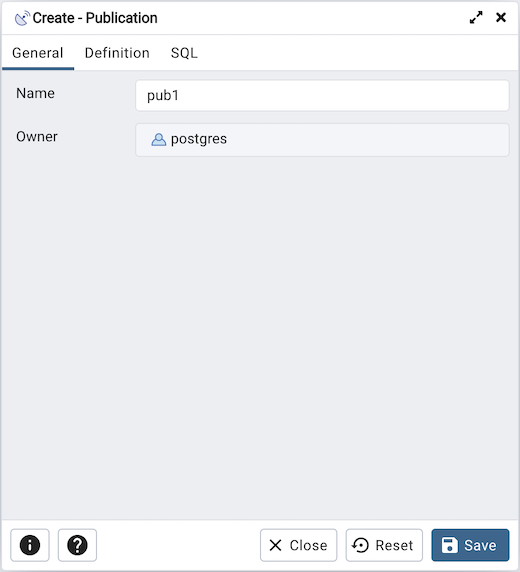
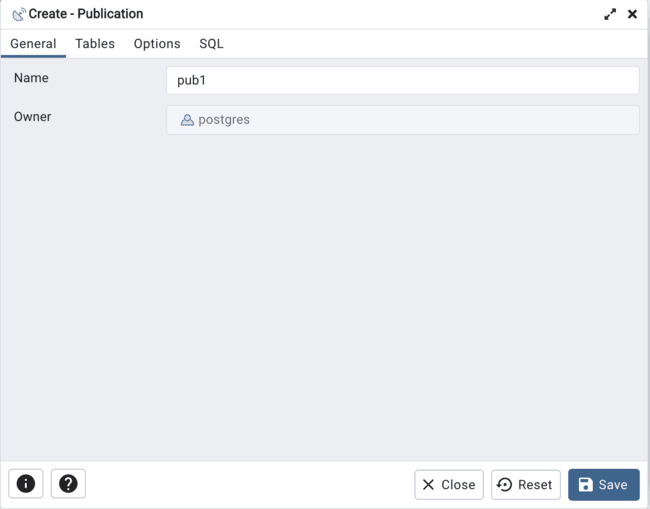
Update the publication dialog tabs and the docs. #5868

diff --git a/web/pgadmin/browser/server_groups/servers/databases/publications/static/js/publication.ui.js b/web/pgadmin/browser/server_groups/servers/databases/publications/static/js/publication.ui.js
@@ -260,11 +260,11 @@ export default class PublicationSchema extends BaseUISchema {
       mode: ['edit', 'properties', 'create'], controlProps: { allowClear: false},
     },{
       id: 'all_table', label: gettext('All tables?'), type: 'switch',
-      group: this.version < 150000 ? gettext('Definition') : gettext('Tables'), mode: ['edit', 'properties', 'create'], deps: ['name'],
+      group: gettext('Tables'), mode: ['edit', 'properties', 'create'], deps: ['name'],
       readonly: (state)  => {return !obj.isNew(state);},
     },{
       id: 'only_table', label: gettext('Only table?'), type: 'switch',
-      group: this.version < 150000 ? gettext('Definition') : gettext('Tables'), mode: ['edit', 'create'],
+      group: gettext('Tables'), mode: ['edit', 'create'],
       deps: ['name', 'pubtable', 'all_table'], readonly: (state)  => {
         if(obj.isNew(state))
           return obj.isTable(state);
@@ -291,7 +291,7 @@ export default class PublicationSchema extends BaseUISchema {
           controlProps: { allowClear: true, multiple: true, creatable: true },
         };
       },  
-      group:  this.version < 150000? gettext('Definition') : gettext('Tables'), mode: ['properties'],
+      group: gettext('Tables'), mode: ['properties'],
       deps: ['all_table'], disabled: obj.isAllTable,
     },
     {
@@ -299,7 +299,7 @@ export default class PublicationSchema extends BaseUISchema {
       type: this.version < 150000 ? 'select' : 'collection',
       controlProps: this.version < 150000 ? { allowClear: true, multiple: true, creatable: true } : null,
       options: this.version < 150000 ? this.fieldOptions.allTables : [],
-      group: this.version < 150000 ? gettext('Definition') : gettext('Tables'), mode: ['edit', 'create'],
+      group: gettext('Tables'), mode: ['edit', 'create'],
       deps: ['all_table'], disabled: obj.isAllTable, schema: this.version < 150000 ? null : this.paramSchema,
       uniqueCol: this.version < 150000 ? null : ['table_name'], 
       canAdd: this.version < 150000 ? null : (state)=> !obj.isConnected(state),
@@ -307,7 +307,7 @@ export default class PublicationSchema extends BaseUISchema {
     },
     {
       type: 'nested-fieldset', mode: ['create','edit', 'properties'],
-      label: gettext('With'), group: this.version < 150000 ? gettext('Definition') : gettext('Options'),
+      label: gettext('With'), group: gettext('Options'),
       schema : new DefaultWithSchema(this.node_info),
     },
     ];

diff --git a/docs/en_US/publication_dialog.rst b/docs/en_US/publication_dialog.rst
@@ -4,11 +4,11 @@
 `Publication Dialog`:index:
 ***************************
 
-`Logical replication <https://www.postgresql.org/docs/13/logical-replication.html>`_ uses a *publish* and *subscribe* model with one or more *subscribers* subscribing to one or more *publications* on a publisher node.
+`Logical replication <https://www.postgresql.org/docs/15/logical-replication.html>`_ uses a *publish* and *subscribe* model with one or more *subscribers* subscribing to one or more *publications* on a publisher node.
 
 Use the *publication* dialog to create a publication. A publication is a set of changes generated from a table or a group of tables or a schema or a group of schemas, and might also be described as a change set or replication set.
 
-The *publication* dialog organizes the development of a publication through the following dialog tabs: *General* and *Definition*. The *SQL* tab displays the SQL code generated by dialog selections. In place of *Definition* tab *Tables* and *Options* tab will come for PostgreSQL version >= 15.
+The *publication* dialog organizes the development of a publication through the following dialog tabs: *General*, *Tables* and *Options*. The *SQL* tab displays the SQL code generated by dialog selections.
 
 .. image:: images/publication_general.png
     :alt: Publication dialog general tab
@@ -19,33 +19,26 @@ Use the fields in the *General* tab to identify the publication:
 * Use the *Name* field to add a descriptive name for the publication. The name will be displayed in the *pgAdmin* tree control.
 * The *Owner* field takes the name of the user automatically as current connected user. You can change the owner after creating publication using alter publication.
 
-Click the *Definition* tab to continue.
+Click the *Tables* tab to continue.
 
-.. image:: images/publication_definition.png
+Tables tab for PostgreSQL version <= 14
+
+.. image:: images/publication_tables_14.png
     :alt: Publication dialog definition tab
     :align: center
 
-Use the *Definition* tab to set properties for the publication:
+Tables tab for PostgreSQL version >= 15
 
-* Move the switch next to *All tables?* to *Yes* to replicate all the tables of the database, including tables created in the future.
-* Move the switch next to *Only table?* to *Yes* to replicate only the listed tables excluding all its descendant tables.
-* Specify a table or list of tables separated by a comma in *Tables* field to replicate all the listed table.
-* Use the *With* section to determine which DML operations will be published by the new publication to the subscribers. Move the switch next to *INSERT*, *UPDATE*, *DELETE*, or *TRUNCATE* to *No* if you do not want to replicate any of these DML operations from Publication to Subscription. By default, all the switches are set to *Yes* allowing all the DML operations.
-
-With PostgreSQL 15 forward, the *Tables* and *Options* tab will be visible.
-
-Click the *Tables* tab to continue.
-
-.. image:: images/publication_tables.png
-    :alt: Publication dialog tables tab
+.. image:: images/publication_tables_15.png
+    :alt: Publication dialog definition tab
     :align: center
 
 Use the *Tables* tab to set table properties for the publication:
 
 * Move the switch next to *All tables?* to *Yes* to replicate all the tables of the database, including tables created in the future.
 * Move the switch next to *Only table?* to *Yes* to replicate only the listed tables excluding all its descendant tables.
-* Specify a schema or list of schemas separated by a comma in *Tables In Schema* field to replicate all the listed schemas. This field will be disabled if any columns are selected for tables in subsequent field.
-* Specify a table or list of tables to replicate all the listed table along with specific columns and/or WHERE clause to filter rows.
+* Specify a table or list of tables separated by a comma in *Tables* field to replicate all the listed table. With PostgreSQL 15 forward, specify a table or list of tables to replicate all the listed tables along with specific columns and/or WHERE clause to filter rows.
+* With PostgreSQL 15 forward, specify a schema or list of schemas separated by a comma in *Tables In Schema* field to replicate all the listed schemas. This field will be disabled if any columns are selected for tables.
 
 Click the *Options* tab to continue.
 
@@ -58,7 +51,7 @@ Use the *Options* tab to set option properties for the publication:
 * Use the *With* section to determine which DML operations will be published by the new publication to the subscribers. Move the switch next to *INSERT*, *UPDATE*, *DELETE*, or *TRUNCATE* to *No* if you do not want to replicate any of these DML operations from Publication to Subscription. By default, all the switches are set to *Yes* allowing all the DML operations.
 
 
-.. note:: A published table must have a “replica identity” configured in order to be able to replicate UPDATE and DELETE operations. You can change with ALTER TABLE statement. For more information on replica identity see `Logical Replication Publication <https://www.postgresql.org/docs/13/logical-replication-publication.html>`_.
+.. note:: A published table must have a “replica identity” configured in order to be able to replicate UPDATE and DELETE operations. You can change with ALTER TABLE statement. For more information on replica identity see `Logical Replication Publication <https://www.postgresql.org/docs/15/logical-replication-publication.html>`_.
 
 Click the *SQL* tab to continue.
 
@@ -70,7 +63,7 @@ The following is an example of the sql command generated by user selections in
 the *Publication* dialog:
 
 .. image:: images/publication_sql.png
-    :alt: Publication dialog sql tab for PostgreSQL version <= 14
+    :alt: Publication dialog sql tab
     :align: center
 
 The example creates a publication named *pub1* that is owned by *postgres*. It
